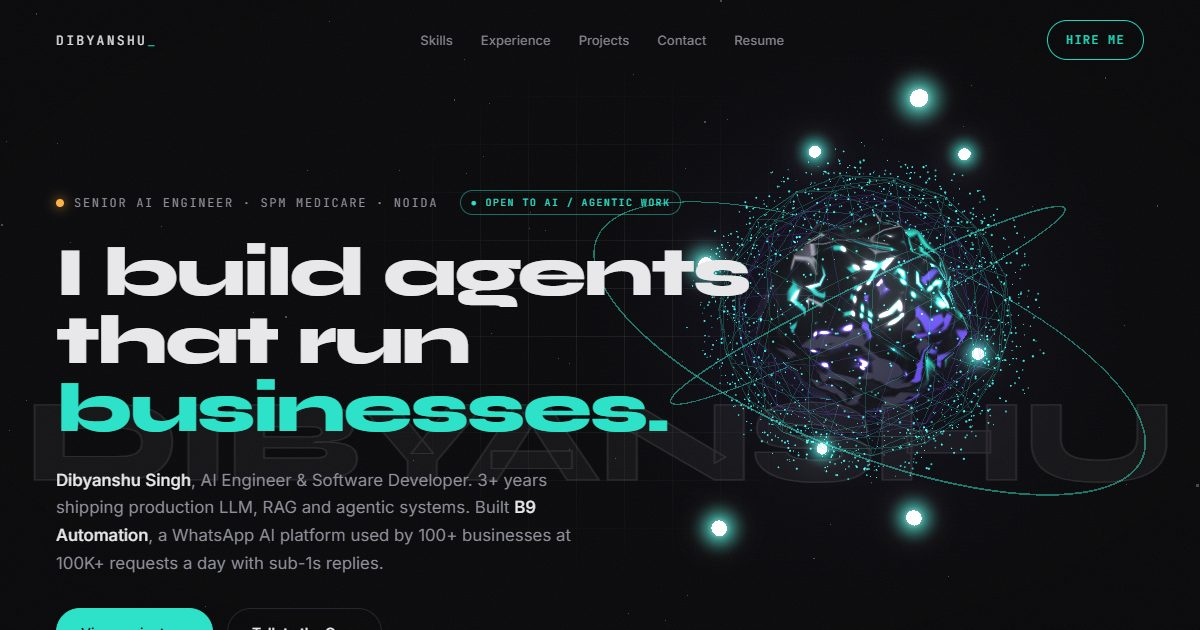
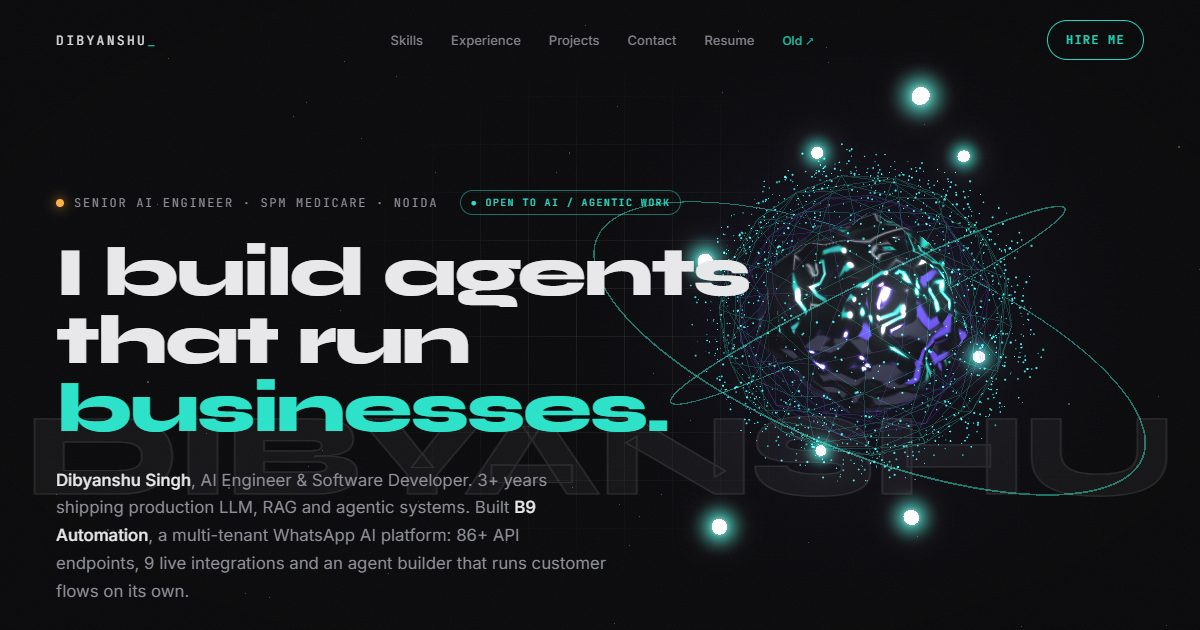
content: drop unverifiable usage numbers, keep facts from the codebase
- 100+ businesses / 100K req per day / 95% retention / 1,000+ sessions /
  sub-1s claims removed from hero, stats, B9 card + case study, flow
  diagram, chat facts, meta tags and the old site
- replaced with 86+ endpoints, 62+ models, 9 live integrations, 37 flow
  nodes, multi-tenant
- small muted "Old" link back in the nav; og.jpg regenerated

diff --git a/index.html b/index.html
@@ -4,10 +4,10 @@
 <meta charset="utf-8">
 <meta name="viewport" content="width=device-width, initial-scale=1, viewport-fit=cover">
 <title>Dibyanshu Singh — AI Engineer · Agents, RAG &amp; LLM systems</title>
-<meta name="description" content="Dibyanshu Singh, AI Engineer &amp; Software Developer. Production LLM, RAG and agentic AI systems. Builder of B9 Automation, a WhatsApp AI platform used by 100+ businesses.">
+<meta name="description" content="Dibyanshu Singh, AI Engineer &amp; Software Developer. Production LLM, RAG and agentic AI systems. Builder of B9 Automation, a multi-tenant WhatsApp AI platform.">
 <meta name="theme-color" content="#09090B">
 <meta property="og:title" content="Dibyanshu Singh — AI Engineer">
-<meta property="og:description" content="Agents, RAG, and the model under them. Production AI systems at 100K+ requests a day.">
+<meta property="og:description" content="Agents, RAG, and the model under them. Production AI systems, built end to end.">
 <meta property="og:type" content="website">
 <meta property="og:url" content="https://portfolio-nine-coral-57.vercel.app/">
 <meta property="og:image" content="https://portfolio-nine-coral-57.vercel.app/og.jpg">
@@ -177,6 +177,7 @@ h2{margin:0;font-family:var(--display);font-weight:800;font-size:clamp(36px,5vw,
 .contact .inner{display:flex;flex-direction:column;gap:28px;align-items:flex-start}
 .contact h2{font-size:clamp(40px,7vw,104px)}
 .mail{font-family:var(--mono);font-size:14px;color:var(--muted);user-select:all}
+nav ul .oldlink{font-size:12px;color:var(--muted);opacity:.85}nav ul .oldlink:hover{color:var(--accent);opacity:1}
 footer a{color:inherit;text-decoration:none}footer a:hover{color:var(--accent)}
 footer{padding-block:28px;border-top:1px solid var(--line);display:flex;flex-wrap:wrap;justify-content:space-between;gap:12px;font-family:var(--mono);font-size:11px;letter-spacing:.14em;color:var(--muted)}
 footer a{color:var(--muted);text-decoration:none}
@@ -263,7 +264,7 @@ button.card{text-align:left;font:inherit;cursor:none;width:100%}
 
 <nav class="ui">
   <a class="logo" href="#top" data-mag>DIBYANSHU<b>_</b></a>
-  <ul><li><a href="#skills">Skills</a></li><li><a href="#experience">Experience</a></li><li><a href="#projects">Projects</a></li><li><a href="#contact">Contact</a></li><li><a href="resume.pdf" target="_blank" rel="noopener">Resume</a></li></ul>
+  <ul><li><a href="#skills">Skills</a></li><li><a href="#experience">Experience</a></li><li><a href="#projects">Projects</a></li><li><a href="#contact">Contact</a></li><li><a href="resume.pdf" target="_blank" rel="noopener">Resume</a></li><li><a href="old/" class="oldlink" title="The previous version of this site">Old ↗</a></li></ul>
   <a class="btn ghost" href="#contact" data-mag>HIRE ME</a>
 </nav>
 
@@ -273,9 +274,9 @@ button.card{text-align:left;font:inherit;cursor:none;width:100%}
     <div class="hero-inner">
       <div class="eyebrow"><span class="dot"></span><span id="scr" data-text="SENIOR AI ENGINEER · SPM MEDICARE · NOIDA">SENIOR AI ENGINEER · SPM MEDICARE · NOIDA</span><span class="avail">● OPEN TO AI / AGENTIC WORK</span></div>
       <h1 id="h1">I build agents that run <span class="acc">businesses.</span></h1>
-      <p class="lede"><b>Dibyanshu Singh</b>, AI Engineer &amp; Software Developer. 3+ years shipping production LLM, RAG and agentic systems. Built <b>B9 Automation</b>, a WhatsApp AI platform used by 100+ businesses at 100K+ requests a day with sub-1s replies.</p>
+      <p class="lede"><b>Dibyanshu Singh</b>, AI Engineer &amp; Software Developer. 3+ years shipping production LLM, RAG and agentic systems. Built <b>B9 Automation</b>, a multi-tenant WhatsApp AI platform: 86+ API endpoints, 9 live integrations and an agent builder that runs customer flows on its own.</p>
       <div class="ctas"><a class="btn primary" href="#projects" data-mag>View projects →</a><a class="btn" href="#core" data-mag>Talk to the Core</a></div>
-      <div class="stats"><div><b>100+</b>BUSINESSES ON B9</div><div><b>100K</b>REQ / DAY</div><div><b>&lt;1s</b>AI REPLY</div><div><b>3+</b>YRS SHIPPING</div></div>
+      <div class="stats"><div><b>86+</b>API ENDPOINTS ON B9</div><div><b>9</b>LIVE INTEGRATIONS</div><div><b>37</b>FLOW-BUILDER NODES</div><div><b>3+</b>YRS SHIPPING</div></div>
     </div>
     <div class="scrollcue"><i></i>SCROLL · THE CORE FOLLOWS</div>
   </section>
@@ -328,7 +329,7 @@ button.card{text-align:left;font:inherit;cursor:none;width:100%}
   <section class="projects wrap" id="projects">
     <div class="sec-head reveal"><div><p class="kicker">SHIPPED</p><h2>Work in orbit.</h2></div><p class="sub">Three systems in production. Open a card for the architecture, the numbers and the code.</p></div>
     <div class="cards reveal">
-      <button class="card wide" type="button" data-proj="b9"><div class="glare"></div><div class="meta"><span>FLAGSHIP · BUILT &amp; RUN BY ME</span><em>LIVE · 100+ BUSINESSES</em></div><h3>B9 Automation</h3><p>Multi-tenant WhatsApp AI SaaS. 86+ REST endpoints, 62+ PostgreSQL models, JWT auth, 9 live integrations on AWS EC2. Agentic core: autonomous agent builder, RAG over business documents, Groq Llama 3.3 + Gemini 2.0 Flash failover, lead scoring, prompt-safety guardrails. No-code 37-node flow builder, Celery + Redis campaign engine, Razorpay tiered billing. Sub-1s replies across 1,000+ concurrent sessions, 95%+ retention.</p><div class="tags"><span>Next.js</span><span>FastAPI</span><span>PostgreSQL</span><span>Groq</span><span>Gemini</span><span>RAG</span><span>Celery</span><span>Redis</span><span>AWS</span></div><div class="more">OPEN CASE STUDY →</div></button>
+      <button class="card wide" type="button" data-proj="b9"><div class="glare"></div><div class="meta"><span>FLAGSHIP · BUILT &amp; RUN BY ME</span><em>LIVE · MULTI-TENANT</em></div><h3>B9 Automation</h3><p>Multi-tenant WhatsApp AI SaaS. 86+ REST endpoints, 62+ PostgreSQL models, JWT auth, 9 live integrations on AWS EC2. Agentic core: autonomous agent builder, RAG over business documents, Groq Llama 3.3 + Gemini 2.0 Flash failover, lead scoring, prompt-safety guardrails. No-code 37-node flow builder, Celery + Redis campaign engine, Razorpay tiered billing.</p><div class="tags"><span>Next.js</span><span>FastAPI</span><span>PostgreSQL</span><span>Groq</span><span>Gemini</span><span>RAG</span><span>Celery</span><span>Redis</span><span>AWS</span></div><div class="more">OPEN CASE STUDY →</div></button>
       <button class="card" type="button" data-proj="nexus"><div class="glare"></div><div class="meta"><span>PROJECT</span><em>LIVE</em></div><h3>Nexus AI Insight Engine</h3><p>3-tier multi-agent research system (Researcher, Critic, Writer) with live web search, Pinecone RAG memory, sub-2s responses and PDF export.</p><div class="tags"><span>Next.js</span><span>FastAPI</span><span>LangGraph</span><span>Gemini</span><span>Pinecone</span><span>Tavily</span></div><div class="more">OPEN CASE STUDY →</div></button>
       <button class="card" type="button" data-proj="crm"><div class="glare"></div><div class="meta"><span>PROJECT</span><em>LIVE</em></div><h3>Full-Stack Auth &amp; CRM Portal</h3><p>Enterprise CRM with Google OAuth 2.0, RBAC, CSRF protection, real-time Razorpay payments, admin analytics dashboard and automated credential emails via Nodemailer.</p><div class="tags"><span>Next.js</span><span>Node.js</span><span>PostgreSQL</span><span>OAuth 2.0</span><span>Razorpay</span></div><div class="more">OPEN CASE STUDY →</div></button>
     </div>
@@ -457,7 +458,7 @@ document.querySelectorAll('.card').forEach(card=>{
 (function(){
   const body=document.getElementById('tbody'),form=document.getElementById('tform'),inp=document.getElementById('tin'),state=document.getElementById('tstate');if(!form)return;
 
-  const LOCAL=[[/b9|whatsapp|automation/i,'B9 Automation is a multi-tenant WhatsApp AI SaaS Dibyanshu built and runs: 100+ businesses, 100K+ requests a day, sub-1s replies. 86+ FastAPI endpoints, LangGraph agent builder, RAG over business documents, Groq + Gemini failover, Razorpay billing on AWS.'],
+  const LOCAL=[[/b9|whatsapp|automation/i,'B9 Automation is a multi-tenant WhatsApp AI SaaS Dibyanshu built and runs: 86+ FastAPI endpoints, 62+ PostgreSQL models, 9 live integrations, LangGraph agent builder, RAG over business documents, Groq + Gemini failover, Razorpay billing on AWS.'],
     [/stack|tech|skill|tool/i,'Python, FastAPI, Django and Node on the backend; Next.js 15, React and TypeScript on the front; LangChain, LangGraph, RAG with Pinecone and pgvector; Groq Llama 3.3 and Gemini 2.0 Flash; PostgreSQL, MongoDB, Redis; AWS, Docker, GitHub Actions.'],
     [/experience|work|job|career|ringpass|phero|spm/i,'Senior AI Engineer at SPM Medicare (Aug 2026-now), before that Full Stack Developer at RingPass Services (multi-agent LangGraph pipeline, enterprise CRM, 99.8% payment success) and Backend Developer at Phero Health Care (100K+ daily requests, HIPAA-compliant, 99.5% uptime).'],
     [/agent|rag|llm|langgraph|ai/i,'He builds agents as LangGraph state machines: intent detection, a planner with tool calling, observe-and-correct loops, guardrails before anything is sent. RAG runs on chunked, embedded documents in Pinecone with tenant filters and Groq-to-Gemini failover.'],
@@ -525,7 +526,7 @@ const FLOWS=[
    {id:'obs',k:'box',l:'Observe',p:[2.3,1.25],d:'The tool result goes back into state. If it failed, the planner sees the error and self-corrects: retry, fallback or escalate. This is the loop.',t:['Self-correcting loops','Retry + backoff','Celery']},
    {id:'guard',k:'box',l:'Guardrails',p:[0.9,-1.25],d:'Before anything leaves, a checker scans for prompt injection, PII leaks, off-brand claims and tone. Blocked replies are rewritten or routed to a human.',t:['Prompt safety','LLM Evaluation','RBAC']},
    {id:'reply',k:'box',l:'Reply',p:[2.3,-1.25],d:'The answer is sent, lead score updated, next-best-action suggested to the business dashboard.',t:['Lead scoring','SSE','Next.js dashboard']},
-   {id:'out',k:'out',l:'Customer',p:[3.6,-1.25],d:'Sub-1s round trip across 1,000+ concurrent sessions. Zero human intervention after the flow is launched.',t:['100K+ req/day','AWS EC2','Redis']}
+   {id:'out',k:'out',l:'Customer',p:[3.6,-1.25],d:'The reply goes back through the WhatsApp Cloud API. Zero human intervention after the flow is launched.',t:['Groq + Gemini failover','AWS EC2','Redis']}
   ],
   edges:[['user','intent'],['intent','llm'],['llm','tool'],['tool','obs'],['obs','llm'],['llm','guard'],['guard','reply'],['reply','out']],
   steps:['user','intent','llm','tool','obs','llm','guard','reply','out']},
@@ -545,9 +546,9 @@ const FLOWS=[
 
 /* ---------- project case studies ---------- */
 const PROJ={
- b9:{status:'LIVE · 100+ BUSINESSES · BUILT & RUN BY ME',title:'B9 Automation',sum:'Multi-tenant WhatsApp AI SaaS. A business connects its WhatsApp number, uploads its documents, drags together a flow, and an agent handles customers end to end: answers, orders, payments, lead scoring.',
+ b9:{status:'LIVE · MULTI-TENANT · BUILT & RUN BY ME',title:'B9 Automation',sum:'Multi-tenant WhatsApp AI SaaS. A business connects its WhatsApp number, uploads its documents, drags together a flow, and an agent handles customers end to end: answers, orders, payments, lead scoring.',
   steps:[['Webhook ingress','Meta WhatsApp Cloud API events hit FastAPI, signature-verified, tenant resolved from the phone number id.'],['Agent core','LangGraph planner with tool calling; RAG over the tenant’s documents; Groq Llama 3.3 with Gemini 2.0 Flash failover.'],['Flow builder','No-code 37-node canvas in Next.js. Flows compile to a state machine the agent follows and can self-correct.'],['Campaign engine','Celery + Redis workers for broadcasts and drip campaigns; rate-limited per tenant.'],['Billing + integrations','Razorpay tiered plans (Starter / Pro / Enterprise); 9 live integrations incl. Shopify, IndiaMART, Facebook Ads, Google Sheets.'],['Infra','AWS EC2, PostgreSQL (62+ models), JWT + Fernet multi-tenant auth, SSE typing indicators, monitoring.']],
-  metrics:[['86+','REST ENDPOINTS'],['100K+','REQUESTS / DAY'],['<1s','AI REPLY'],['95%+','RETENTION']],
+  metrics:[['86+','REST ENDPOINTS'],['62+','POSTGRES MODELS'],['9','LIVE INTEGRATIONS'],['37','FLOW NODES']],
   stack:['Next.js 15','FastAPI','PostgreSQL','LangGraph','Groq','Gemini','RAG','Celery','Redis','Razorpay','AWS EC2'],
   links:[['Live demo','https://b9-automation-frontend.vercel.app'],['GitHub','https://github.com/dibyanshu122/B9-Automation--frontend']]},
  nexus:{status:'LIVE · PROJECT',title:'Nexus AI Insight Engine',sum:'A 3-tier multi-agent research system. Ask a question; a Researcher gathers live web sources, a Critic checks them, a Writer produces a cited report you can export as PDF.',

diff --git a/script.js b/script.js
@@ -497,18 +497,18 @@ function startCounters() {
       live: true,
       icon: 'fab fa-whatsapp',
       title: 'B9 Automation — WhatsApp AI SaaS',
-      desc: `India's first WhatsApp AI Agency Platform with a visual drag-and-drop flow builder (40+ canvas nodes). Built a complete production SaaS from scratch.
+      desc: `WhatsApp AI agency platform with a visual drag-and-drop flow builder (37 canvas nodes). Built a complete production SaaS from scratch.
 
 Key achievements:
 • 86+ FastAPI REST endpoints & 62+ PostgreSQL models
-• Multi-tenant JWT + Fernet AES-128-CBC auth — 100K+ req/day on AWS EC2
+• Multi-tenant JWT + Fernet AES-128-CBC auth on AWS EC2
 • Autonomous agent builder: designs, deploys & self-corrects flows — zero human intervention after launch
-• RAG pipeline (Groq Llama 3.3 + Gemini 2.0 Flash failover) — sub-1s response across 1,000+ concurrent sessions
+• RAG pipeline with Groq Llama 3.3 + Gemini 2.0 Flash failover
 • Agentic loop: AI-generated templates, lead scoring, next-best-action, prompt safety guardrails
 • Real-time: SSE typing indicators, Celery + Redis async campaign processor
 • 9 live integrations: Shopify, IndiaMART, Facebook Ads, Razorpay…
-• Tiered SaaS (Starter / Pro / Enterprise) — 100+ businesses, 95%+ retention`,
-      metrics: ['100+ Businesses','86+ API Endpoints','95%+ Retention','1,000+ Concurrent Sessions','100K+ Requests/Day','Sub-1s Response'],
+• Tiered SaaS (Starter / Pro / Enterprise) with Razorpay billing`,
+      metrics: ['86+ API Endpoints','62+ PostgreSQL Models','9 Live Integrations','37 Flow Nodes','Multi-tenant Auth','Groq + Gemini Failover'],
       tags: ['Next.js 15','FastAPI','Python','PostgreSQL','LangChain','LangGraph','Groq Llama 3.3','Gemini 2.0','RAG','Celery','Redis','AWS EC2','Razorpay'],
       liveUrl: 'https://b9-automation-frontend.vercel.app',
       ghUrl:   'https://github.com/dibyanshu122',
@@ -767,7 +767,7 @@ Database optimisation:
     // Skills / Tech
     { keys:['skill','tech','stack','use','language','framework','know','tools','expertise'], ans:"Backend: FastAPI, Python, Node.js, Celery, Redis. Frontend: Next.js 15, React, TypeScript, Tailwind. AI/LLM: LangChain, LangGraph, Groq Llama 3.3, Gemini 2.0 Flash, RAG, Pinecone, OpenAI. Cloud: AWS EC2/S3/RDS, Docker, Vercel, GitHub Actions, PostgreSQL, MongoDB." },
     // Agentic AI
-    { keys:['ai','agent','agentic','rag','langchain','langgraph','llm','gemini','groq','pipeline','vector','autonomous'], ans:"I build production agentic AI systems: autonomous agents using LangChain + LangGraph that plan, act, and self-correct. RAG pipelines with sub-1s response times, Pinecone vector memory, Groq/Gemini failover. Also built a 3-tier multi-agent pipeline: Researcher → Critic → Writer (Nexus AI Engine)." },
+    { keys:['ai','agent','agentic','rag','langchain','langgraph','llm','gemini','groq','pipeline','vector','autonomous'], ans:"I build production agentic AI systems: autonomous agents using LangChain + LangGraph that plan, act, and self-correct. low-latency RAG pipelines with Pinecone vector memory, Groq/Gemini failover. Also built a 3-tier multi-agent pipeline: Researcher → Critic → Writer (Nexus AI Engine)." },
     // Projects
     { keys:['project','nexus','crm','healthcare','built','portfolio','work','built','made','show'], ans:"Key projects: 1) B9 Automation — WhatsApp AI SaaS (in development). 2) Nexus AI Engine — 3-tier multi-agent research platform, live at nexus-ai-insight-engine.vercel.app. 3) Full-Stack Auth & CRM Portal — Google OAuth 2.0, Razorpay, RBAC, zero security incidents. 4) Healthcare Microservices — 50K+ MAU, HIPAA-compliant." },
     // Experience / Work

diff --git a/api/core.js b/api/core.js
@@ -13,7 +13,7 @@ PREVIOUS:
 - Full Stack Developer, RingPass Services Pvt. Ltd. (Sep 2025 - Aug 2026, New Delhi): 3-tier multi-agent system (Researcher, Critic, Writer) with LangChain + LangGraph + Pinecone RAG; Next.js + PostgreSQL enterprise CRM with Google OAuth 2.0, 4-role RBAC, HTTP-only cookies; onboarding automation cut manual setup 80%; Razorpay + Rozgar Pay webhooks with retry/backoff at 99.8% success; DB latency -45%; 10K+ daily active users.
 - Backend Developer, Phero Health Care Pvt. Ltd. (Aug 2023 - Sep 2025, Delhi): Django + Node.js microservices, 100K+ daily API requests, 50K+ monthly users, 99.5% uptime; led MySQL to MongoDB migration with sharding (500ms to 350ms); HIPAA-compliant RBAC, AES-256 at rest, audit logging, AWS EC2/RDS auto-scaling.
 
-FLAGSHIP PROJECT: B9 Automation, a multi-tenant WhatsApp AI SaaS he built and runs. Used by 100+ businesses, 100K+ requests/day, sub-1s AI replies across 1,000+ concurrent sessions, 95%+ retention. 86+ REST endpoints, 62+ PostgreSQL models, JWT auth, 9 live integrations (Meta WhatsApp Cloud API, Razorpay, Shopify, IndiaMART, Facebook Ads, Google Sheets...). Agentic core: autonomous agent builder, RAG over business documents, Groq Llama 3.3 + Gemini 2.0 Flash failover, lead scoring, prompt-safety guardrails. No-code 37-node flow builder, Celery + Redis campaign engine, Razorpay tiered billing, AWS EC2. Live: b9-automation-frontend.vercel.app
+FLAGSHIP PROJECT: B9 Automation, a multi-tenant WhatsApp AI SaaS he built and runs, live in production. 86+ REST endpoints, 62+ PostgreSQL models, JWT auth, 9 live integrations (Meta WhatsApp Cloud API, Razorpay, Shopify, IndiaMART, Facebook Ads, Google Sheets...). Agentic core: autonomous agent builder, RAG over business documents, Groq Llama 3.3 + Gemini 2.0 Flash failover, lead scoring, prompt-safety guardrails. No-code 37-node flow builder, Celery + Redis campaign engine, Razorpay tiered billing, AWS EC2. Live: b9-automation-frontend.vercel.app
 
 OTHER PROJECTS: Nexus AI Insight Engine (3-tier multi-agent research: Researcher, Critic, Writer; Tavily live web search; Pinecone RAG memory; sub-2s; PDF export; Next.js + FastAPI + LangGraph + Gemini). Full-Stack Auth & CRM Portal (Next.js, Node.js, PostgreSQL, Google OAuth 2.0, RBAC, CSRF, real-time Razorpay, admin analytics, Nodemailer credential emails).
 

diff --git a/old/index.html b/old/index.html
@@ -358,9 +358,9 @@
       </div>
       <div class="exp-card__divider"></div>
       <ul class="exp-card__list">
-        <li>Architected full production SaaS: 86+ FastAPI REST endpoints, 62+ PostgreSQL models, multi-tenant JWT + Fernet AES-128-CBC auth — handling 100K+ requests/day on AWS EC2</li>
+        <li>Architected full production SaaS: 86+ FastAPI REST endpoints, 62+ PostgreSQL models, multi-tenant JWT + Fernet AES-128-CBC auth on AWS EC2</li>
         <li>Built end-to-end Agentic AI: autonomous agent builder that designs, deploys, and self-corrects WhatsApp flows — zero human intervention after launch</li>
-        <li>Engineered RAG pipeline (Groq Llama 3.3 + Gemini 2.0 Flash dynamic failover) — sub-1s response across 1,000+ concurrent sessions</li>
+        <li>Engineered RAG pipeline with Groq Llama 3.3 + Gemini 2.0 Flash dynamic failover</li>
         <li>Designed agentic loop orchestration with AI-generated template builders, lead scoring engine, next-best-action suggestions, and prompt safety guardrails</li>
         <li>Built real-time infra: SSE typing indicators, Celery + Redis async campaign processor, 9 live integrations (Shopify, IndiaMART, Facebook Ads…)</li>
         <li>Developed tiered SaaS architecture (Starter / Pro / Enterprise) with Razorpay payment integration</li>
